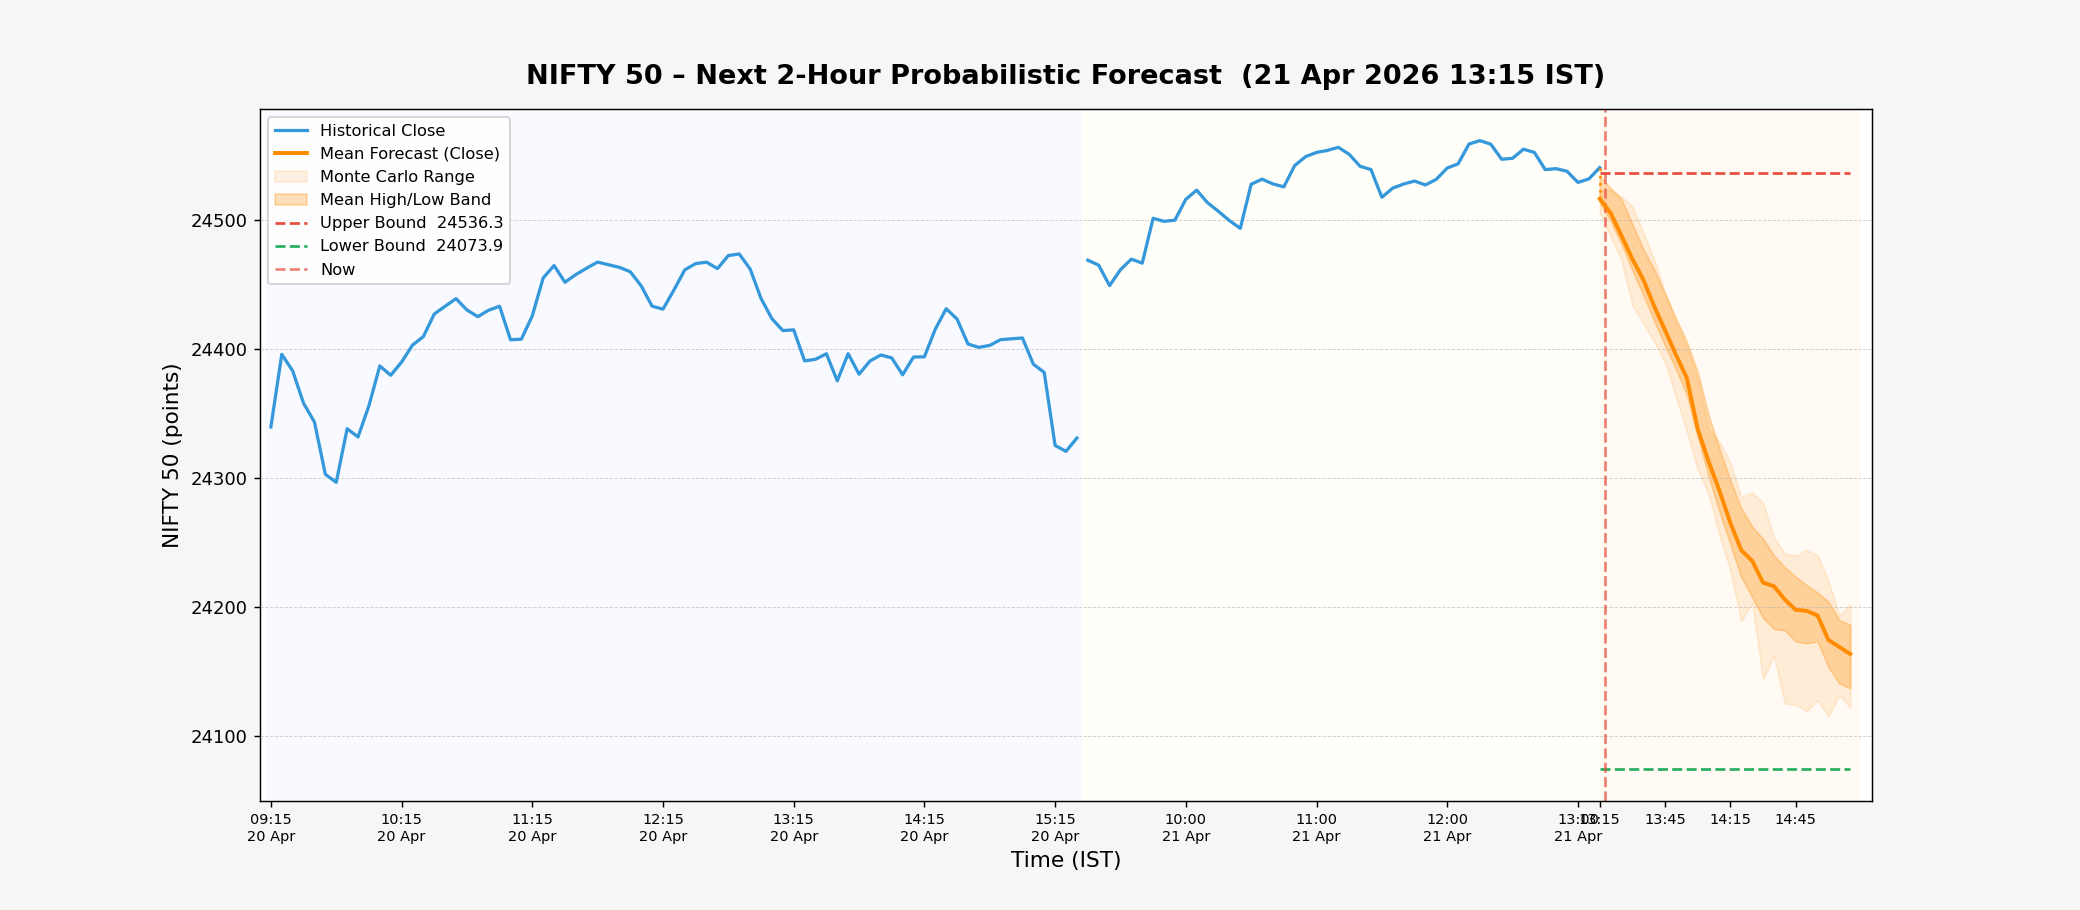
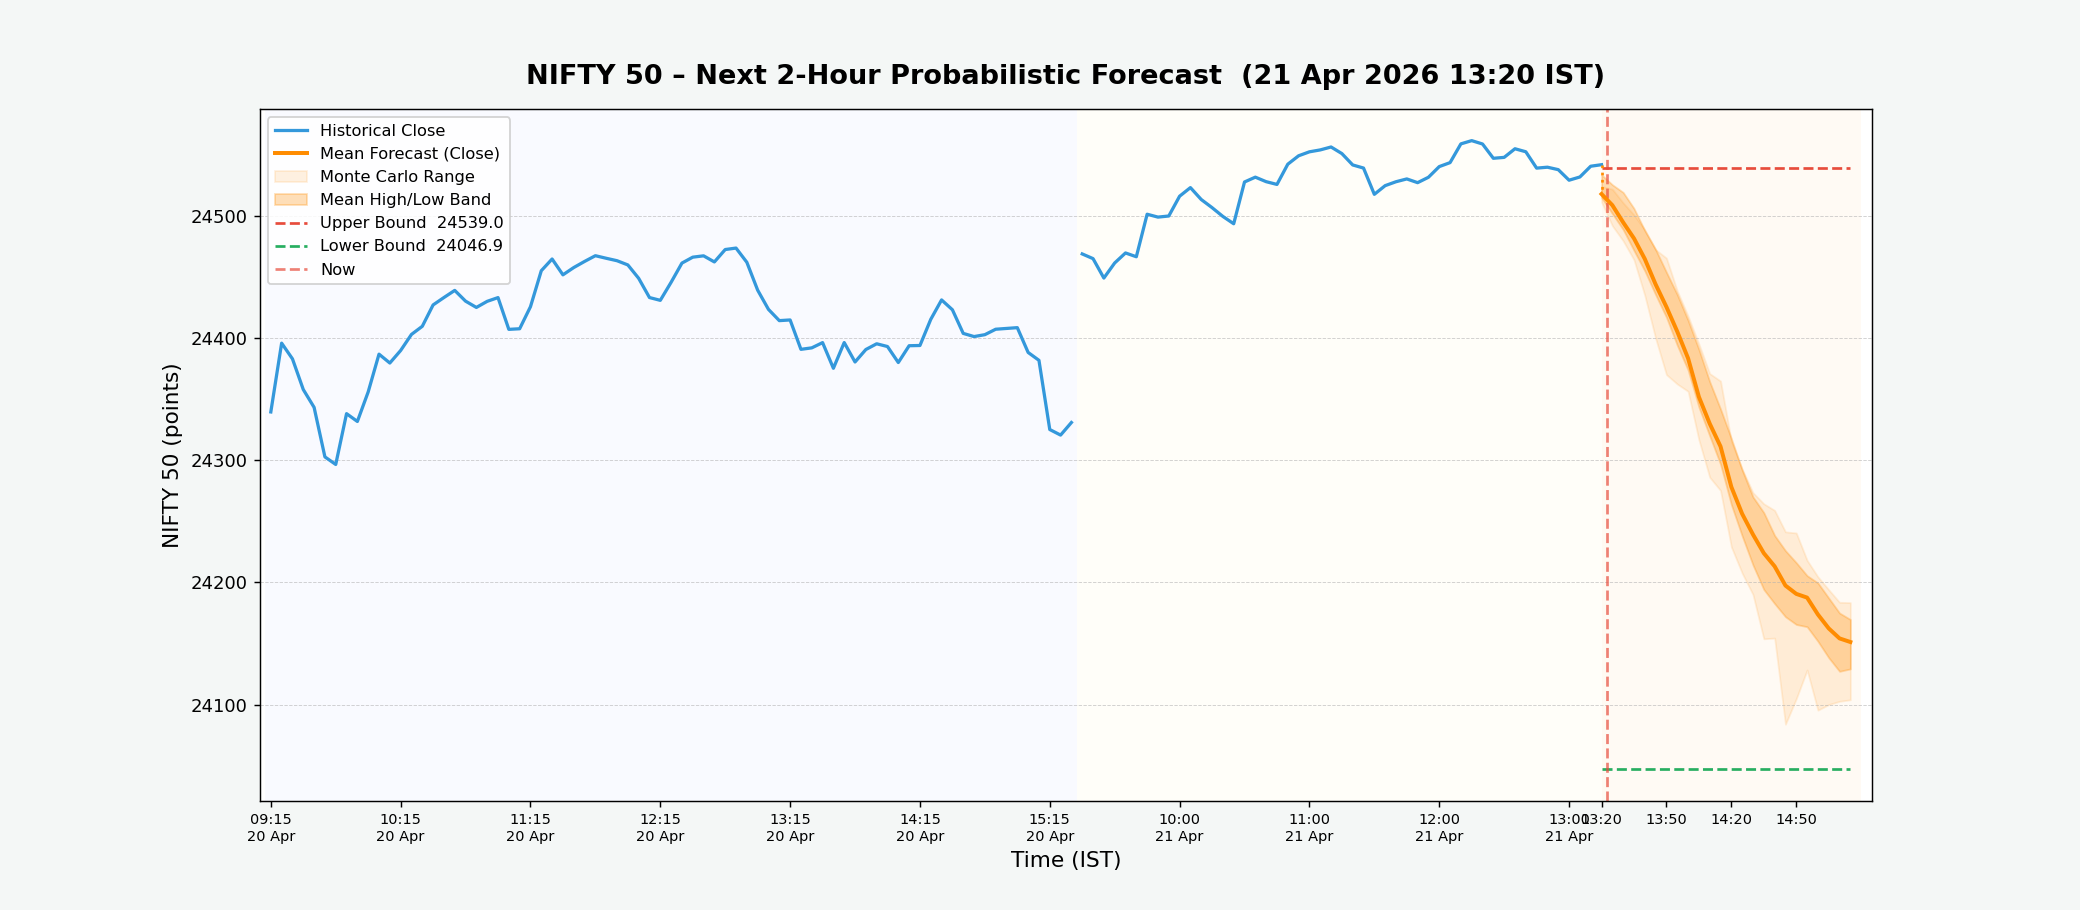
NIFTY forecast update – 2026-04-21 13:20 IST

diff --git a/index.html b/index.html
@@ -24,29 +24,29 @@
 
         <!-- Timestamp bar -->
         <div class="timestamp-bar">
-            <span>Last updated (IST):&nbsp;<strong id="update-time">2026-04-21 13:15:04</strong></span>
+            <span>Last updated (IST):&nbsp;<strong id="update-time">2026-04-21 13:20:04</strong></span>
         </div>
 
         <!-- Metric cards -->
         <div class="metrics-container">
             <div class="metric-card bullish">
                 <div class="metric-label">Bullish Bar Ratio</div>
-                <div class="metric-value" id="upside-prob">16.2%</div>
+                <div class="metric-value" id="upside-prob">15.0%</div>
                 <div class="metric-sub">Next 2h · close &gt; open %</div>
             </div>
             <div class="metric-card upper">
                 <div class="metric-label">Upper Bound</div>
-                <div class="metric-value" id="upper-bound">24536.3</div>
+                <div class="metric-value" id="upper-bound">24539.0</div>
                 <div class="metric-sub">Max predicted high</div>
             </div>
             <div class="metric-card lower">
                 <div class="metric-label">Lower Bound</div>
-                <div class="metric-value" id="lower-bound">24073.9</div>
+                <div class="metric-value" id="lower-bound">24046.9</div>
                 <div class="metric-sub">Min predicted low</div>
             </div>
             <div class="metric-card range">
                 <div class="metric-label">Predicted Range</div>
-                <div class="metric-value" id="pred-range">462.5 pts</div>
+                <div class="metric-value" id="pred-range">492.0 pts</div>
                 <div class="metric-sub">Upper − Lower spread</div>
             </div>
         </div>
